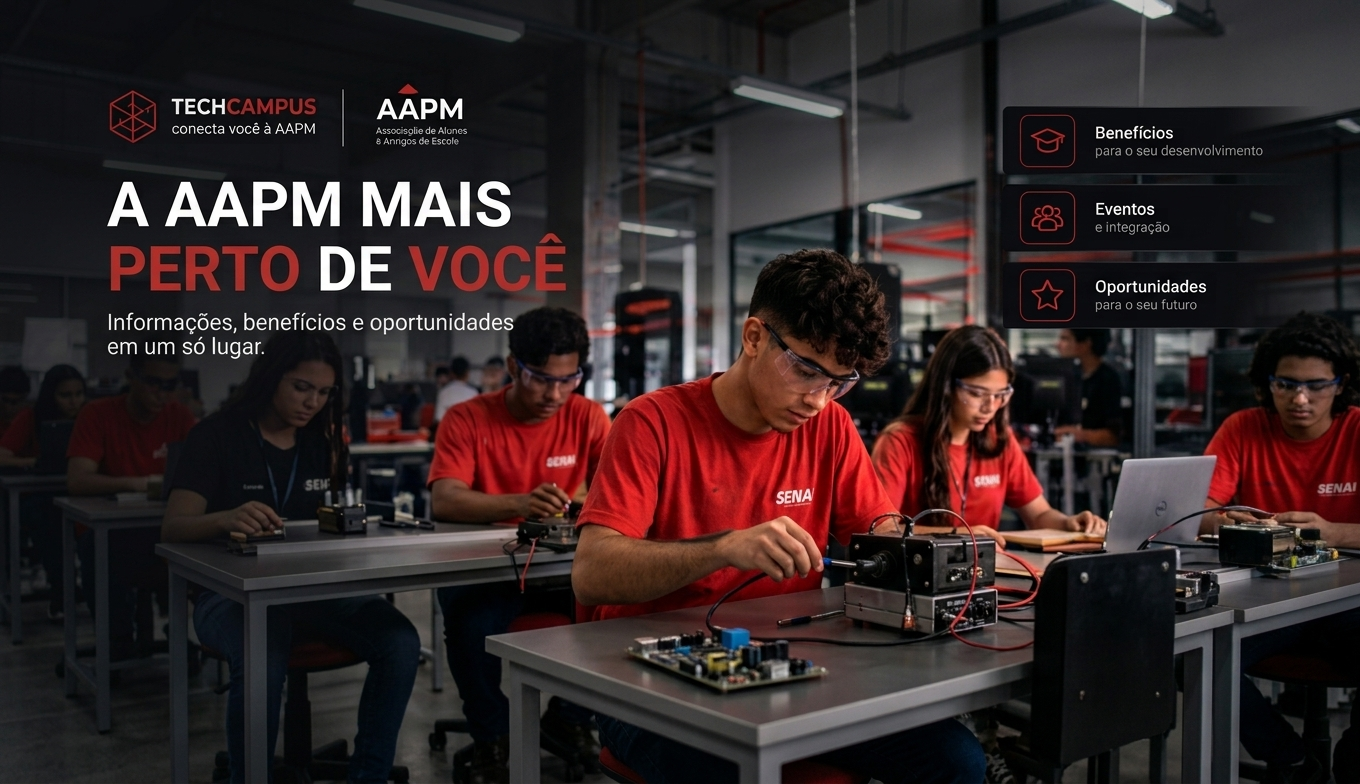
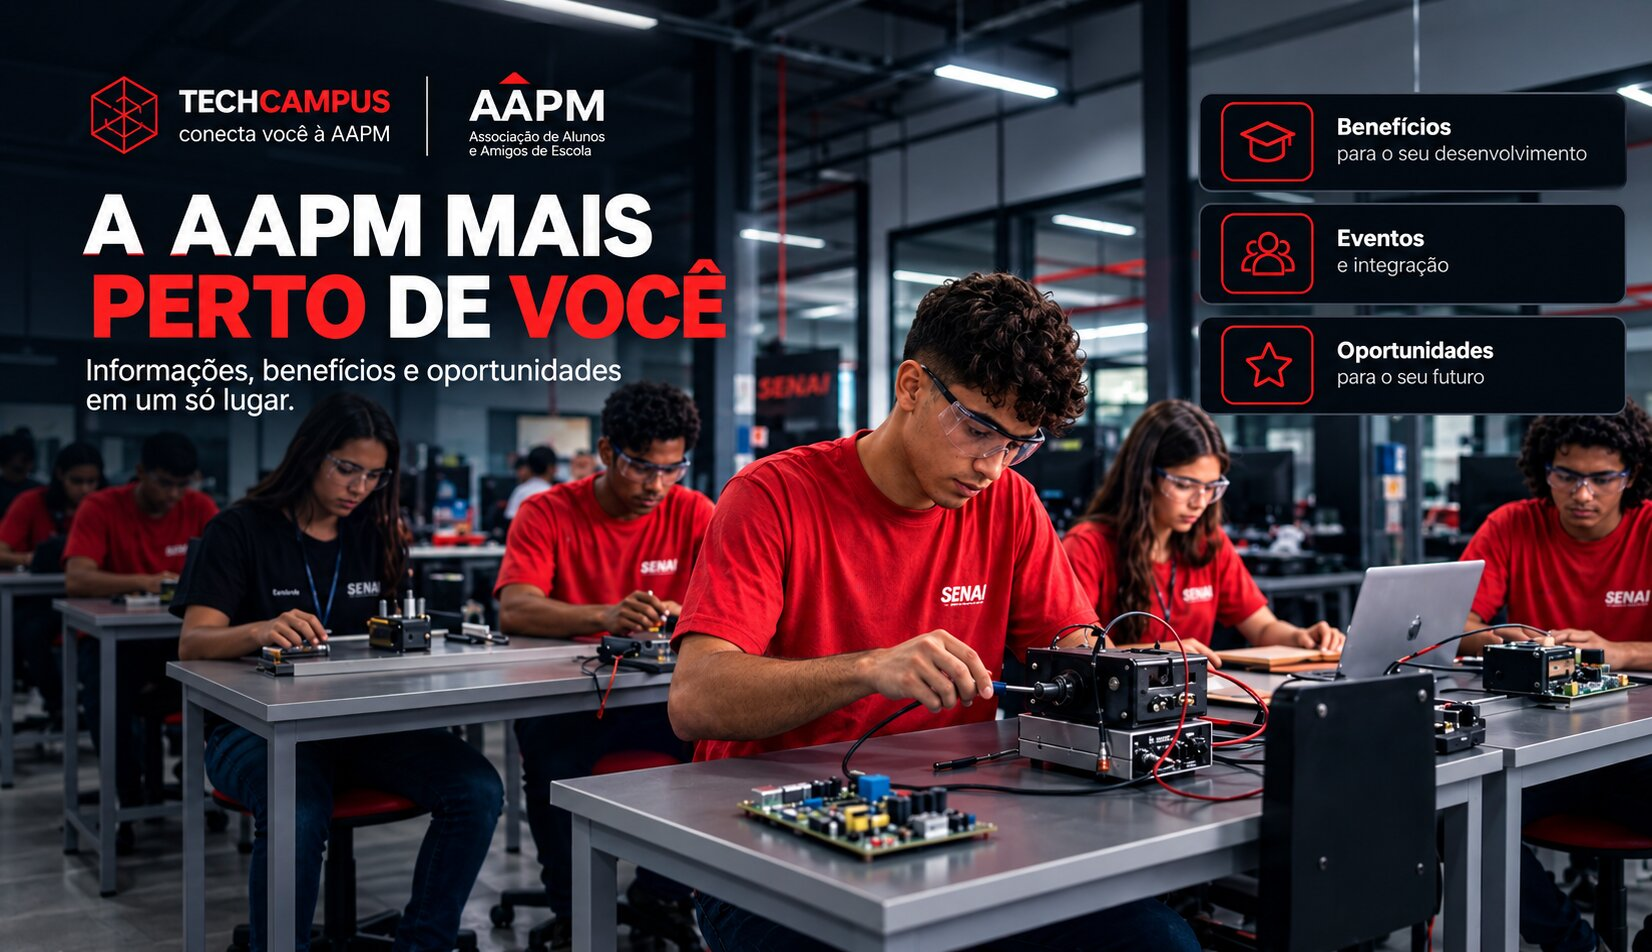
Adicionado Imagens no Carrossel

diff --git a/public/index.html b/public/index.html
@@ -51,6 +51,7 @@
         
         <!-- Sidebar -->
         <aside class="sidebar">
+            
             <div class="sidebar-top">
                 <div class="brand mb-4">
                     <img src="./images/logoTechCampus.png" alt="TechCampus" class="img-fluid" style="max-width: 120px;">
@@ -58,17 +59,22 @@
 
                 <nav class="nav-menu">
                     <a href="#inicio" class="menu-item ativo"><img src="./images/icon-inicio.svg" alt="inicio" width="25" height="25">Início</a>
-                    <a href="documento" class="menu-item"><img src="./images/icon-documento.svg" alt="documento" width="30" height="30">Documentação</a>
-                    <a href="uniforme" class="menu-item"><img src="./images/icon_uniforme.svg" alt="uniformes" width="30" height="30">Pedidos de uniformes</a>
-                    <a href="pedidos" class="menu-item"><img src="./images/icon-pedido-disponivel.svg" alt="pedido disponivel" width="30" height="30">Pedidos disponíveis</a>
-                    <a href="avisos" class="menu-item"><img src="./images/icon_aviso.svg" alt="aviso" width="40" height="40">Avisos gerais</a>
-                    <a href="sobre" class="menu-item"><img src="./images/icon_sobre.svg" alt="sobre" width="30" height="30">Sobre a AAPM</a>
-                    <a href="formatura" class="menu-item"><img src="./images/icon_agenda.svg" alt="formatura" width="30" height="30">Tempora de Formatura</a>
-                    <a href="ajuda" class="menu-item"><img src="./images/icon_ajuda.svg" alt="ajuda" width="40" height="40">Ajuda</a>
+                    <a href="#documento" class="menu-item"><img src="./images/icon-documento.svg" alt="documento" width="30" height="30">Documentação</a>
+                    <a href="#uniforme" class="menu-item"><img src="./images/icon_uniforme.svg" alt="uniformes" width="30" height="30">Pedidos de uniformes</a>
+                    <a href="#pedidos" class="menu-item"><img src="./images/icon-pedido-disponivel.svg" alt="pedido disponivel" width="30" height="30">Pedidos disponíveis</a>
+                    <a href="#avisos" class="menu-item"><img src="./images/icon_aviso.svg" alt="aviso" width="40" height="40">Avisos gerais</a>
+                    <a href="#sobre" class="menu-item"><img src="./images/icon_sobre.svg" alt="sobre" width="30" height="30">Sobre a AAPM</a>
+                    <a href="#formatura" class="menu-item"><img src="./images/icon_agenda.svg" alt="formatura" width="30" height="30">Tempora de Formatura</a>
+                    <a href="#ajuda" class="menu-item"><img src="./images/icon_ajuda.svg" alt="ajuda" width="40" height="40">Ajuda</a>
                 </nav>
             </div>
 
             <div class="sidebar-bottom pt-3">
+
+                <div class="CodNewEra">
+                    <p>Desenvolvida por <a href="" style="color: red;" >COD New Era</a></p>
+                </div><hr>
+                
                 <button id="loginBtn" class="btn w-100 d-flex align-items-center justify-content-center gap-2 text-white border-secondary">
                     <i class="bi bi-box-arrow-in-right"></i>
                     <span>Entrar</span>
@@ -161,13 +167,13 @@
                             <img src="./images/banner_01.jpg" class="d-block w-100 carousel-img" alt="Banner 1">
                         </div>
                         <div class="carousel-item">
-                            <img src="./images/banner2.jpg" class="d-block w-100 carousel-img" alt="Banner 2">
+                            <img src="./images/banner_02.jpg" class="d-block w-80 carousel-img" alt="Banner 2">
                         </div>
                         <div class="carousel-item">
-                            <img src="./images/banner3.jpg" class="d-block w-100 carousel-img" alt="Banner 3">
+                            <img src="./images/banner_03.jpg" class="d-block w-100 carousel-img" alt="Banner 3">
                         </div>
                         <div class="carousel-item">
-                            <img src="./images/banner4.jpg" class="d-block w-100 carousel-img" alt="Banner 4">
+                            <img src="./images/banner_04.jpg" class="d-block w-100 carousel-img" alt="Banner 4">
                         </div>
                     </div>
 
@@ -310,8 +316,12 @@
                 </div>
             </section>
 
+
         </main>
     </div>
+
+
+   
 
     <script src="https://cdn.jsdelivr.net/npm/bootstrap@5.3.2/dist/js/bootstrap.bundle.min.js"></script>
 </body>

diff --git a/public/styles.css b/public/styles.css
@@ -47,6 +47,7 @@ body {
     min-height: 100vh;
 }
 
+
 /* Sidebar */
 .sidebar {
     width: 250px;
@@ -89,6 +90,17 @@ body {
 .sidebar a:hover {
     background-color: var(--vermelho-hover);
 }
+
+/* Atualize a classe .CodNewEra no seu arquivo CSS */
+.CodNewEra {
+    display: flex;
+    justify-content: center; /* Centraliza horizontalmente na tela */
+    align-items: center;
+    padding: 10px 0;         /* Espaçamento opcional */
+}
+
+
+
 
 /* Área do Conteúdo Principal */
 .main-content {
@@ -521,3 +533,46 @@ body {
         padding: 20px 15px;
     }
 }
+
+/* --- CONFIGURAÇÃO DA SIDEBAR FIXA COM TRANSIÇÃO --- */
+.sidebar {
+    position: fixed;
+    top: 56px; /* Ajuste isso baseado na altura da sua topbar (ex: 56px ou 60px) */
+    left: 0;
+    height: calc(100vh - 56px);
+    width: 260px; /* Altere para a largura real que você usou na sua sidebar */
+    z-index: 1030;
+    transition: transform 0.3s ease, cubic-bezier(0.4, 0, 0.2, 1);
+}
+
+/* --- ESPAÇAMENTO PADRÃO DO CONTEÚDO PRINCIPAL --- */
+.main-content {
+    margin-left: 260px; /* Mesma largura da sidebar */
+    transition: margin-left 0.3s ease;
+    padding: 20px;
+}
+
+/* --- ESTADO FECHADO (Ativado pelo JavaScript) --- */
+.sidebar.fechado {
+    transform: translateX(-100%); /* Joga a barra inteira para a esquerda fora da tela */
+}
+
+.main-content.expandido {
+    margin-left: 0; /* Ocupa a tela inteira quando a sidebar fecha */
+}
+
+/* --- RESPONSIVIDADE (Celulares e Tablets) --- */
+@media (max-width: 991.98px) {
+    .main-content {
+        margin-left: 0; /* Em telas menores o conteúdo já começa expandido */
+    }
+    .sidebar {
+        transform: translateX(-100%); /* E a sidebar começa fechada */
+    }
+    /* Inverte a lógica no mobile: quando remover o 'fechado', ela aparece sobrepondo o conteúdo */
+    .sidebar:not(.fechado) {
+        transform: translateX(0);
+        box-shadow: 5px 0 15px rgba(0,0,0,0.2);
+    }
+}
+
